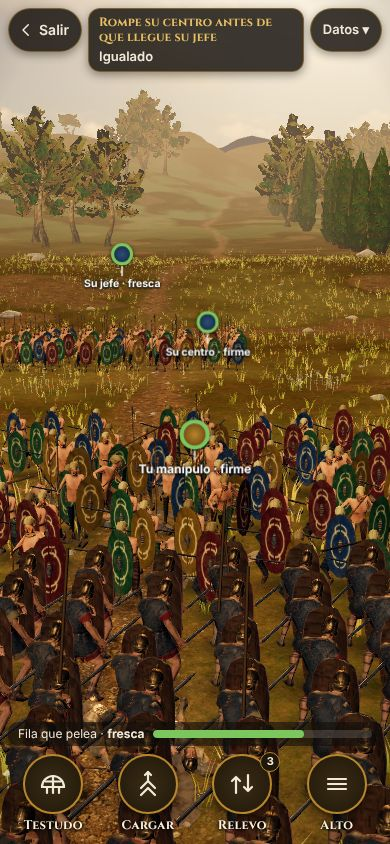
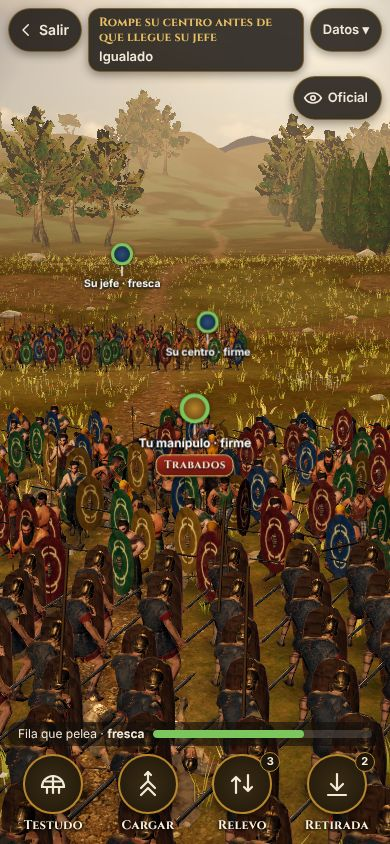
LP5a: parte con juez de área APTO, capturas tras unir y gasto
Claude-Session: https://claude.ai/code/session_01QiKC37Z5NDiMDVhBpnpiC2

diff --git a/gobierno/partes/2026-11-23-LP5a.md b/gobierno/partes/2026-11-23-LP5a.md
@@ -34,16 +34,18 @@ jabalinas vuelan con el motor de FI3 y se clavan en escudos, cuerpos y suelo, o 
 ## Cifras (medida automática de lo que se dibuja, cada 0,2 s)
 | | Vara | Con física (semillas 3 / 11) | Sin física (semilla 3) |
 |---|---|---|---|
-| Rivales, distancia mínima | ≥ 0,8 m | 0,93 / 0,94 m | 0,01 m |
-| Escudo dentro de un rival | ≤ 0,3 por muestra | 0,04 / 0,08 | 20,6 |
-| Colados (rivales alrededor) | ≤ 0,2 | 0,03 / 0,02 | 23,6 |
-| Parejas de un bando a < 0,45 m | ≤ 0,2 y 100 veces menos | 0,01 / 0,00 | 22,4 |
-| De pie sobre un caído | ≤ 2,5 y 20 veces menos | 0,24 / 0,57 | 52,3 |
+| Rivales, distancia mínima | ≥ 0,8 m | 0,95 / 0,91 m | 0,01 m |
+| Escudo dentro de un rival | ≤ 0,3 por muestra | 0,03 / 0,07 | 18,6 |
+| Colados (rivales alrededor) | ≤ 0,2 | 0,00 / 0,00 | 20,6 |
+| Parejas de un bando a < 0,45 m | ≤ 0,2 y 100 veces menos | 0,01 / 0,00 | 22,9 |
+| De pie sobre un caído | ≤ 2,5 y 20 veces menos | 0,25 / 0,67 | 58,1 |
 | Saltos (> 7 m/s) | 0 | 0 / 0 | — |
 | Giro más rápido | ≤ 4,1 rad/s | 4,0 | — |
-| Temblor (va y vuelve > 1 cm) | ≤ 0,5 % de fotogramas | 0,07 % / 0,05 % | 0,02 % |
+| Temblor (va y vuelve > 1 cm) | ≤ 0,5 % de fotogramas | 0,07 % / 0,04 % | 0,03 % |
 | Mismo final con y sin física | igual | igual | |
-| Coste (Node, ~800 hombres y sus caídos) | < 4 ms por paso | 2,2–2,5 ms | |
+| Coste (Node, ~800 hombres y sus caídos) | < 4 ms por paso | 2,3–2,7 ms | |
+
+(Medido tras unir la rama con LP4, LP4b y AL11: la prueba entera da 38 de 38.)
 
 **Dicho claro**: estas varas las escribí **después** de la primera medida (con margen), no antes. Las del motor (1 ms) no se tocaron.
 El temblor con física es algo más que sin ella (0,05–0,07 % frente a 0,02 %).
@@ -51,7 +53,8 @@ El temblor con física es algo más que sin ella (0,05–0,07 % frente a 0,02 %)
 ## Capturas que miré
 `gobierno/capturas-tarea/LP5a-{choque,lucha,flanco,relevo,testudo}-cerca-v.jpg`, `LP5a-{choque,lucha,flanco,relevo}-cerca-h.jpg`,
 `LP5a-{choque,lucha}-antes-v.jpg` (sin física, el antes) y `LP5a-{choque,lucha}-v.jpg` (cámara de siempre).
-Llamadas 22–23; triángulos 0,61–0,74 M (en horizontal ya no pasa de 750 mil). Sin errores de consola.
+Llamadas 22–23 y triángulos 0,61–0,74 M antes de unir; **tras unir con AL11 (soldados nuevos de Meshy) las llamadas suben
+a 29–30**, justo en la vara de 30 (la física no añade ninguna). Sin errores de consola, antes y después de unir.
 Arreglado tras mirarlas: galos colados entre tus filas (frontera), tu manípulo aplastado en una franja cuando las reglas
 metían el bloque galo dentro del tuyo (ahora se aparta el bloque entero).
 
@@ -81,10 +84,11 @@ radios, tiempos de caída y velocidades `licencia de juego`. Los muertos entre l
 (p. ej. Livio 22.51 tras Cannas), aquí `licencia de juego` en la forma.
 
 ## Juez de área
-(ver abajo, se completa al cerrar)
+`node gobierno/juez-area.mjs batallas` tras unir la rama: **APTO**, 13 pruebas en 1334 s (`test/fisica-batalla.test.mjs` 38 de 38,
+`juez-guerra` en ok a los 842 s). `--archivos`: todo en casa. Las capturas GC2 que regenera `juez-guerra` se devolvieron sin cambios.
 
 ## Gasto
-Declarado ≈1,0 M; medido **4,1 M** antes del cierre (director-constructor, Opus, sin agentes). Se fue en las sondas
+Declarado ≈1,0 M; medido **5,7 M** al cerrar (`gobierno/gasto.mjs`), casi seis veces lo declarado (director-constructor, Opus, sin agentes). Se fue en las sondas
 para entender cada fallo (colados, atascos entre muertos, temblor) y en las rondas de capturas.
 
 ## Decide el usuario
